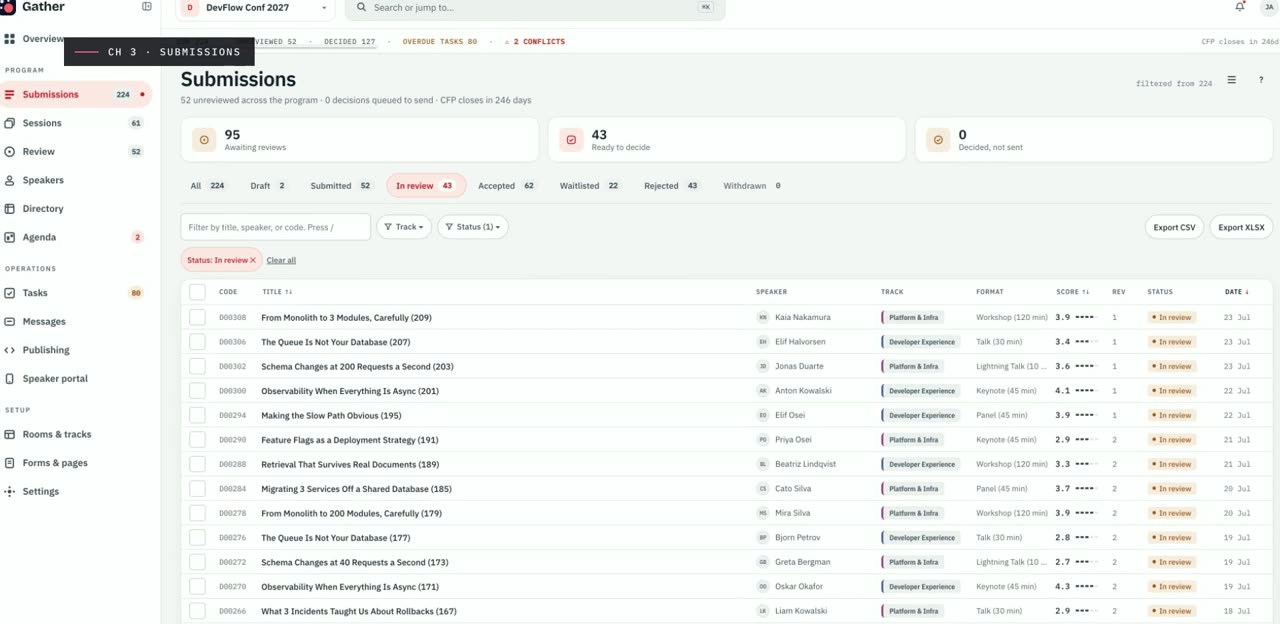
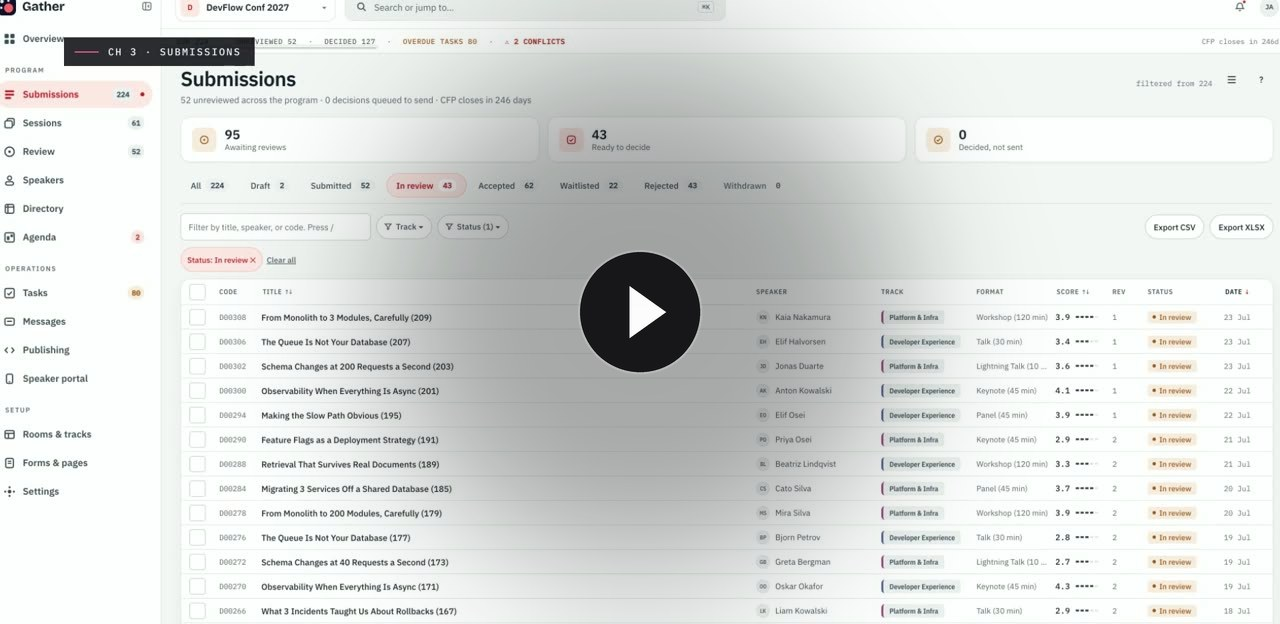
docs(readme): the poster looks like a film, because it cannot be one
GitHub's markdown sanitizer strips <iframe>, so no README embeds a YouTube
player — the poster-that-links-out is the ceiling, not a shortcut. The problem
was that it read as a screenshot: a busy admin table with nothing saying press
me. Composited a play badge onto it, drawn at 4x and downsampled because Pillow
does not antialias shapes and a jagged triangle looks like a broken asset.

Claude-Session: https://claude.ai/code/session_01VbXKhyWFAExAoeCpvtNs1L

diff --git a/README.md b/README.md
@@ -13,14 +13,16 @@ exists.
 make setup && make dev     # a running, seeded conference. no API keys, no accounts.
 ```
 
-<!-- A poster that links out, not a <video> tag: GitHub strips <video> from a README
-     unless the source is one of its own upload URLs, and YouTube embeds do not render
-     here either. The poster is a local asset; the film itself is hosted off-repo, so a
-     50MB file never rides along in every clone. -->
+<!-- A poster that links out, and it cannot be anything else: GitHub's markdown
+     sanitizer strips <iframe>, so no README anywhere embeds a YouTube player, and it
+     strips <video> unless the file was uploaded to GitHub itself. Hence the play badge
+     composited onto the poster — without it the thumbnail reads as a screenshot and
+     nobody clicks it. The film is hosted off-repo so a 50MB file never rides along in
+     every clone. -->
 
-[![Gather — a conference programme, start to finish](.github/media/film-poster.jpg)](https://youtu.be/a7MB6f6Xtfs)
+[![Watch Gather — a conference programme, start to finish](.github/media/film-poster.jpg)](https://youtu.be/a7MB6f6Xtfs)
 
-**▶ [Watch the film](https://youtu.be/a7MB6f6Xtfs)** · the whole programme end to end
+**▶ [Watch the film on YouTube](https://youtu.be/a7MB6f6Xtfs)** · the whole programme, end to end
 
 ---
 
